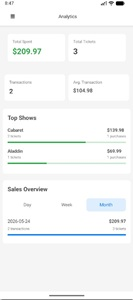
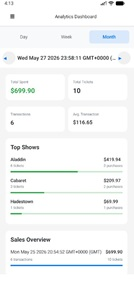
Add settings images, update README, remove JS
Add a Settings section to the README with screenshots and include three new images (general-info, user-info, advanced-settings). Update existing analytics and settings images. Remove unused controller files (favoriteControler.js, favorites.js, saleItem.js) to clean up the template.

diff --git a/NativeScript/template-drawer-navigation-v2/README.md b/NativeScript/template-drawer-navigation-v2/README.md
@@ -314,3 +314,11 @@ Al abrir la aplicación lo hace por login (si es la primera vez o hizo logout de
 | Paso 1                     | Paso 2                     | Paso 3                     |
 | -------------------------- | -------------------------- | -------------------------- |
 | ![Paso 1](img/1-login.jpg) | ![Paso 2](img/2-login.jpg) | ![Paso 3](img/3-login.jpg) |
+
+### Settings
+
+Se accede a consultar información acerca de la App y a editar información del usuario y parametros de conexión con el servidor.
+
+| General Information                          | User Information                | Advanced Settings                               |
+| -------------------------------------------- | ------------------------------- | ----------------------------------------------- |
+| ![General Information](img/general-info.jpg) | ![User Info](img/user-info.jpg) | ![Advanced Settings](img/advanced-settings.jpg) |
